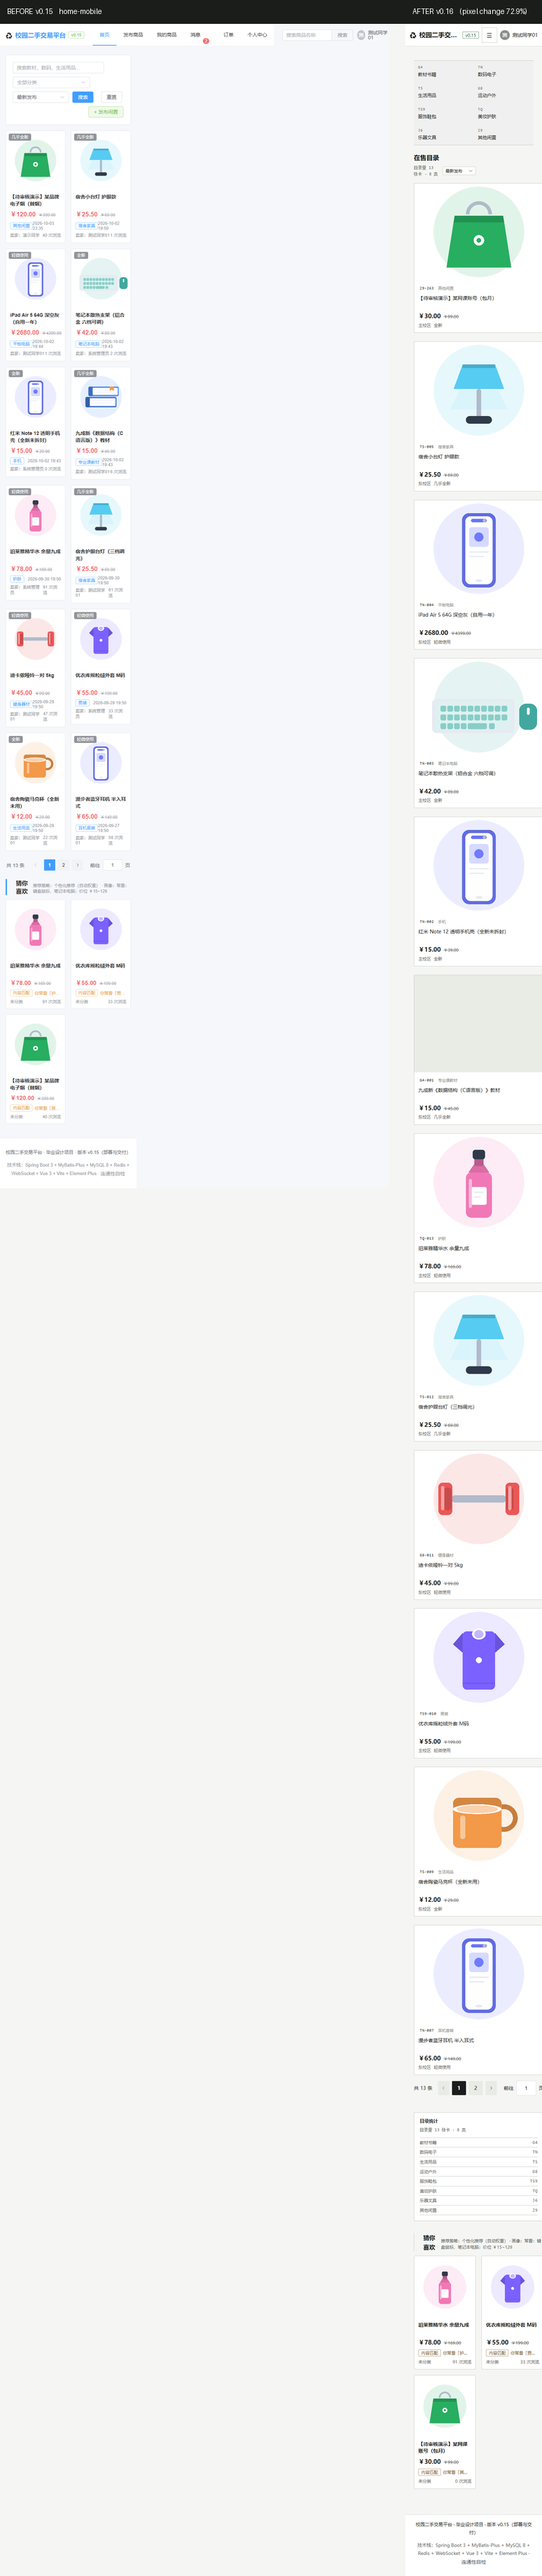
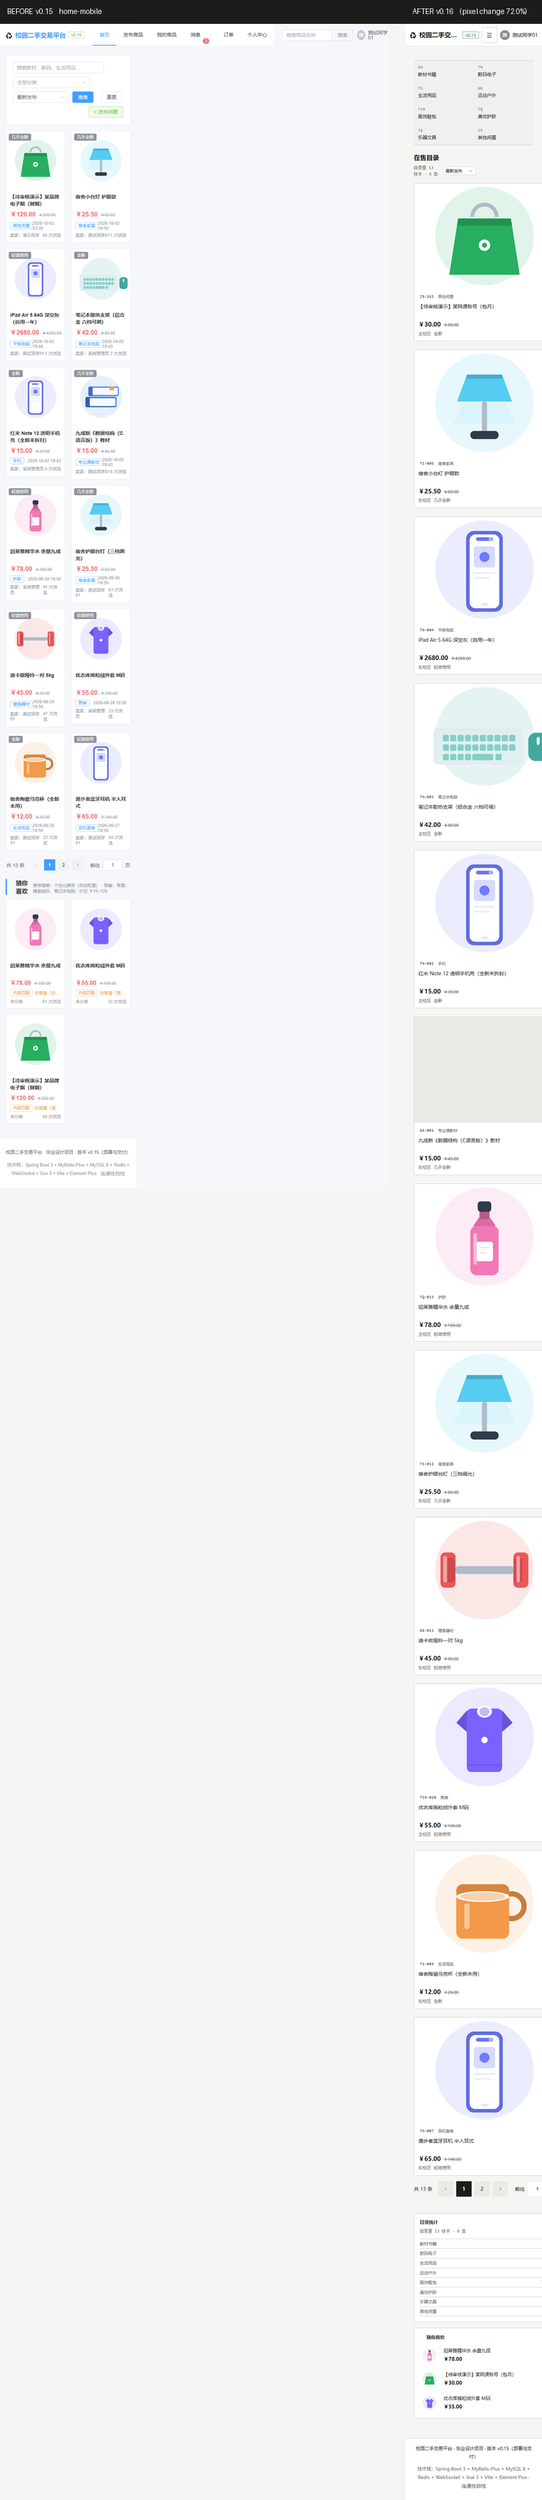
docs(evidence): 刷新全部改版前后对比证据（34 组重采 + 12 张并排图 + 量化表）
一、重采与对比
  · tools/capture-ui.py --label after-r26 重采 17 个页面 × 桌面/移动 = 34 张
  · 与 v0.15 基线 .impeccable/review/before/ 逐像素比对，生成 34 组并排对比图
  · 提交 12 张代表性并排图到 docs/ui-before-after/ 并附量化表

二、本次对比覆盖到全部改动面
  首页（桌面/移动）：按选定稿 A 重构 —— 8 段分类色带、三列目录卡带索书号与校区·成色、
    右栏统计与推荐；移动端把桌面导航收进 ☰ 抽屉（此前 704px 横向溢出）
  登录：冷纸白底 + 墨黑动作色（对比度不达标 65% → 0%）
  搜索/收藏：结果卡与首页同一组件 + 骨架屏 + 错误态
  消息/聊天：错误态、会话条目键盘可达、已读回执渲染、商品条去重
  订单：表格纸面化（0.5px 墨线 + 等宽数字）
  后台：令牌接入、ECharts 主题色、环形图去掉与图例重复的外置标签
  发布/详情：表单分段与上传失败留痕；详情页 h1 + 图片 alt + 缩略图键盘可达 + 价格 40px

三、README 说明
  明确写出该指标衡量的是「变化」而非「变好」：令牌层换底色会让几乎每个像素都不同，
  因此百分比普遍偏高（登录页 90.6%），不能当质量分数使用。

Changed region(s): [[0.7442, 0.0, 1.0, 0.9966], [0.0, 0.0, 0.2481, 0.4672], [0.9612, 0.8409, 0.9922, 0.8721]]

diff --git a/docs/ui-before-after/README.md b/docs/ui-before-after/README.md
@@ -1,28 +1,31 @@
-# 改版前后对比（v0.15 基线 → 当前 v0.16 分支）
+# 改版前后对比（v0.15 基线 → v0.16 分支）
 
 每张图是同一页面、同一视口的**并排对比**：左为 v0.15 基线，右为当前实现。
 变化幅度按整图像素差异计算，**它衡量的是"变化"而不是"变好"** —— 令牌层把底色换成冷纸白
-会让几乎每个像素都不同，因此百分比普遍偏高（登录页 90%+），不能当作质量分数。
+会让几乎每个像素都不同，因此百分比普遍偏高，不能当作质量分数。
 
 | 页面 | 像素变化幅度 | 该页体现的改动 |
 | --- | --- | --- |
-| `login-desktop.png` | 90.6% | 冷纸白底 + 墨黑动作色（对比度不达标 65% → 0%） |
-| `admin-products-desktop.png` | 73.4% | 表格骨架屏 + 错误态 + 空态（后台只调令牌与间距，结构保留） |
-| `home-mobile.png` | 72.9% | 窄屏导航收进 ☰ 抽屉（溢出 704/326/70px → 0）+ 分类色带折行 |
-| `chat-desktop.png` | 72.5% | 错误态 + 焦点可见性修复 |
-| `home-desktop.png` | 72.3% | 按选定稿 A 重构：8 段分类色带、三列目录卡（索书号/校区/成色）、右栏统计与推荐、三态 |
-| `orders-bought-desktop.png` | 65.3% | 令牌层 + 错误态 |
-| `messages-desktop.png` | 63.5% | 错误态（静默刷新不打断页面） |
-| `search-desktop.png` | 52.1% | 骨架屏替换转圈遮罩 + 错误态 + 空态主行动 |
-| `favorites-desktop.png` | 46.1% | 骨架屏（8 项 4 列）+ 错误态 |
-| `admin-dashboard-desktop.png` | 38.6% | 后台令牌接入 + ECharts 主题色 + 环形图标签不再被裁切 |
+| `login-desktop.png` | 90.6% | 冷纸白底 + 墨黑动作色（对比度不达标 65% → 0%）+ 字段错误可被读屏关联 |
+| `admin-products-desktop.png` | 73.4% | 表格骨架屏 + 错误态 + 空态 + 筛选下拉可访问名称 |
+| `chat-desktop.png` | 72.7% | 已读回执渲染 + 商品条去重 + 错误态 + 焦点可见性 |
+| `home-mobile.png` | 72.0% | 窄屏导航收进 ☰ 抽屉（溢出 704/326/70px → 0）+ 分类色带两列折行 |
+| `home-desktop.png` | 71.7% | 按选定稿 A 重构：8 段分类色带、三列目录卡（索书号/校区·成色）、右栏统计与推荐、三态 |
+| `orders-bought-desktop.png` | 65.3% | 订单表纸面化（细线/等宽数字）+ 令牌与错误态 |
+| `messages-desktop.png` | 63.5% | 错误态（静默刷新不打断页面）+ 会话条目键盘可达 |
+| `search-desktop.png` | 62.7% | 结果卡与首页同一组件（索书号/校区）+ 骨架屏 + 错误态 |
+| `detail-desktop.png` | 56.0% | h1 + 图片 alt + 缩略图键盘可达 + 价格 40px 主导 + 令牌化间距 |
+| `favorites-desktop.png` | 46.1% | 骨架屏（8 项 4 列）+ 错误态 + 卡片键盘可达 |
+| `admin-dashboard-desktop.png` | 38.3% | 后台令牌接入 + ECharts 主题色 + 环形图去掉与外置标签的重叠 |
+| `publish-desktop.png` | 30.4% | 发布表单分段 + 上传失败留痕 + 控件可访问名称 |
 
-全部对比图与量化数据在 `.impeccable/review/compare-r19b/`（该目录不进 git）。
+全部 34 组对比（17 个页面 × 桌面/移动）与量化数据在 `.impeccable/review/compare-r26/`
+（该目录不进 git）。
 
 ## 生成方式（可复现）
 
-1. `python tools/capture-ui.py --label after-r19b --base http://127.0.0.1:8081`
-   （17 个页面 × 桌面/移动 = 34 张，附带 manifest.json 记录 URL / 视口 / 文件哈希）
-2. 与基线 `.impeccable/review/before/` 逐像素比对，缩放 50% 后左右并排并标注。
+1. `python tools/capture-ui.py --label after-r26 --base http://127.0.0.1:8081`
+   （17 个页面 × 桌面/移动 = 34 张，附 manifest.json 记录 URL / 视口 / 文件哈希）
+2. 与基线 `.impeccable/review/before/` 逐像素比对，缩放 50% 后左右并排并标注变化幅度。
 
-两套截图都带 manifest.json 可供复核。
+两套截图都带 manifest.json 可供复核；采集脚本是仓库里的 `tools/capture-ui.py`。
